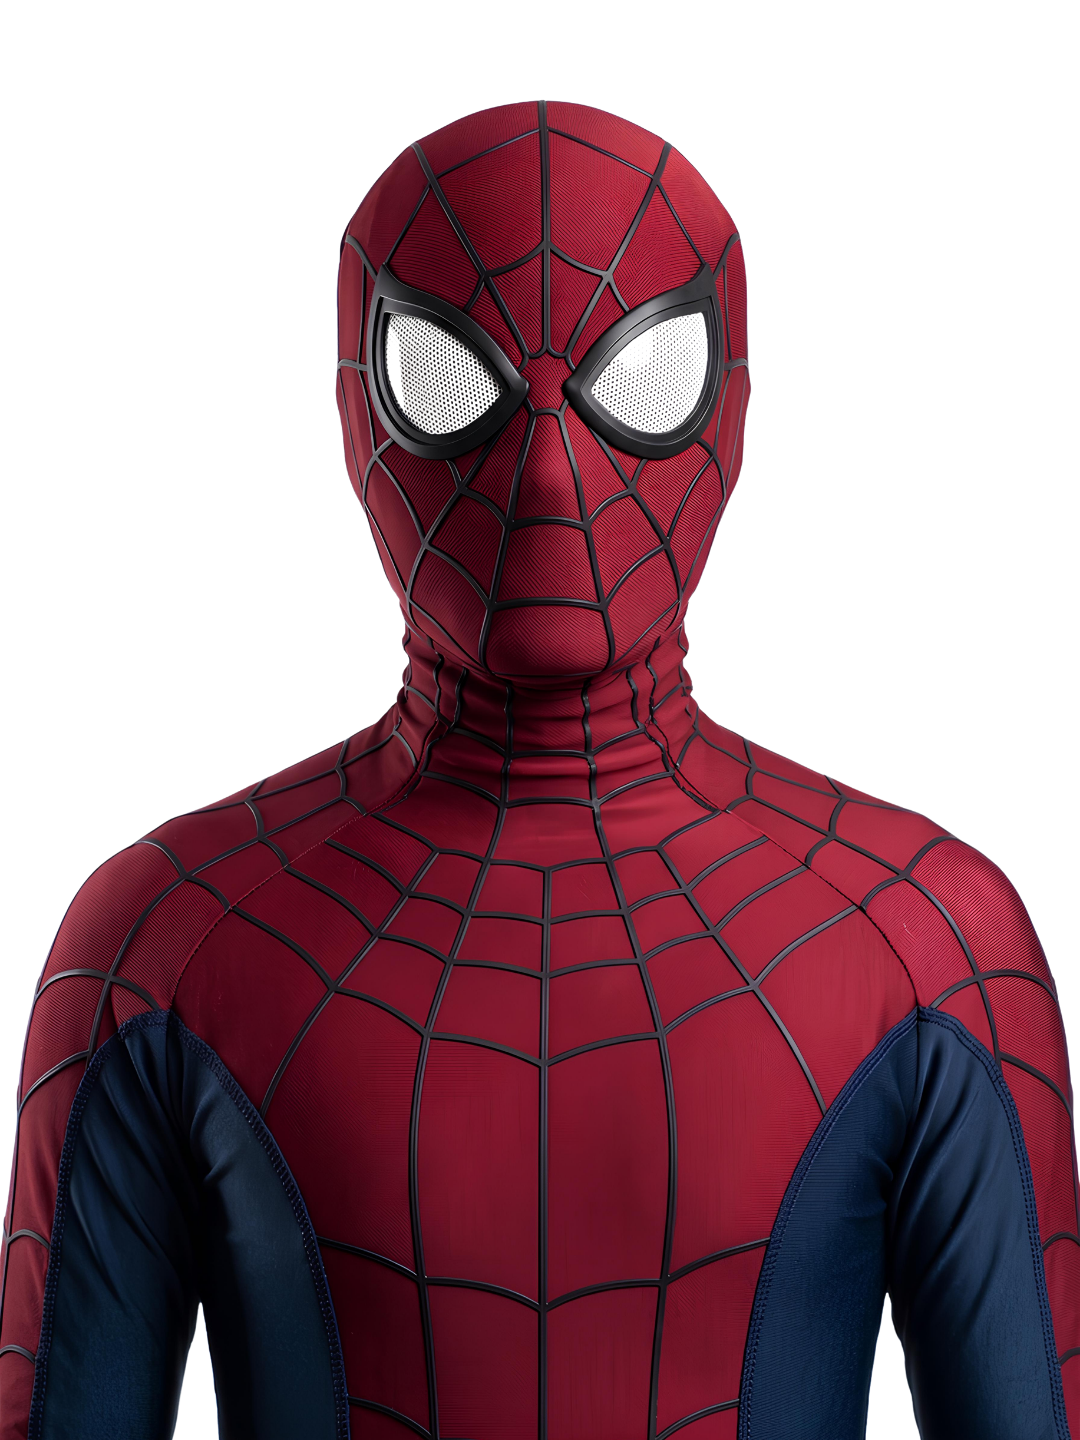
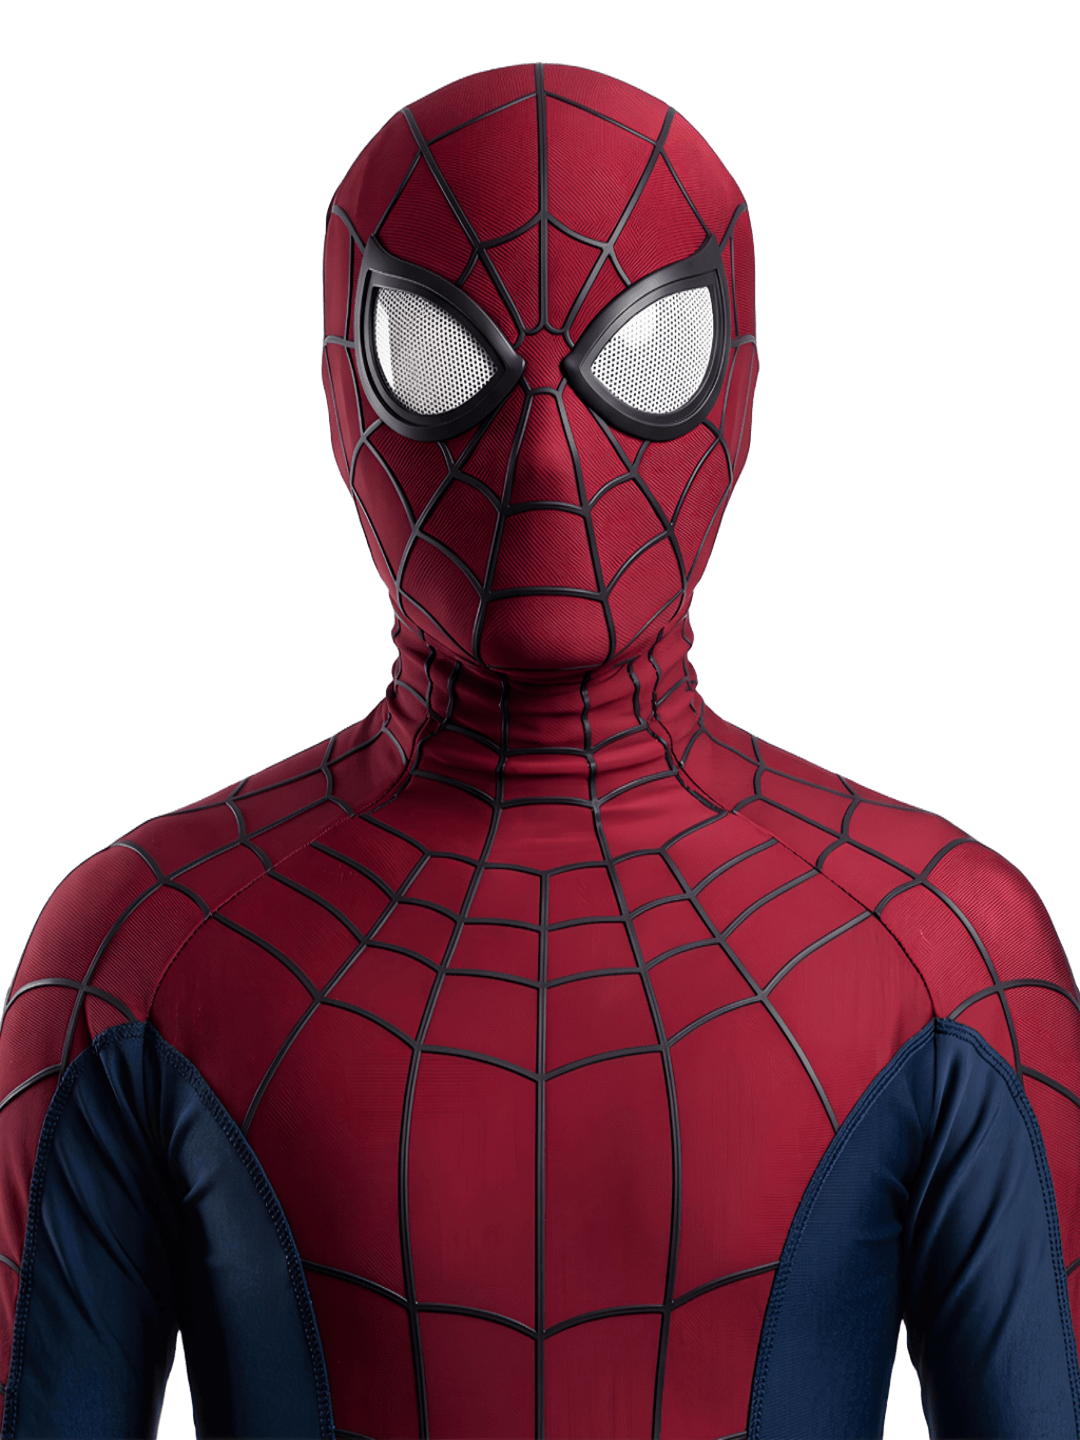
feat: implement image swap effect on hover

Changed region(s): [[0.0, 0.0312, 1.0, 1.0]]

diff --git a/style.css b/style.css
@@ -29,7 +29,7 @@ body {
   pointer-events: none;
   position: absolute;
   inset: 0;
-  background: radial-gradient(ellipse 80% 60% at 50% 30%, #aaee44 0%, #d4f56a 20%, #e8f9b0 45%, #ffffff 75%);
+  background: radial-gradient(ellipse 80% 60% at 50% 30%, #dc2626 0%, #f87171 20%, #fecaca 45%, #ffffff 75%);
 }
 
 .hero-content {
@@ -91,18 +91,110 @@ body {
   position: relative;
   z-index: 10;
   pointer-events: none;
-  filter: grayscale(100%);
   width: 340px;
   height: 460px;
 }
 
 .hero-image {
+  position: relative;
+  z-index: 0;
   width: 100%;
   height: 100%;
   object-fit: cover;
   object-position: top;
   mask-image: linear-gradient(to bottom, black 65%, transparent 100%);
   -webkit-mask-image: linear-gradient(to bottom, black 65%, transparent 100%);
+}
+
+@property --aura-x {
+  syntax: '<percentage>';
+  inherits: false;
+  initial-value: 50%;
+}
+
+@property --aura-y {
+  syntax: '<percentage>';
+  inherits: false;
+  initial-value: 50%;
+}
+
+.spider-image {
+  --aura-x: 50%;
+  --aura-y: 50%;
+  --aura-radius: 126px;
+  position: absolute;
+  inset: 0;
+  z-index: 1;
+  width: 100%;
+  height: 100%;
+  object-fit: cover;
+  object-position: top;
+  opacity: 0;
+  mask-image: radial-gradient(circle var(--aura-radius) at var(--aura-x) var(--aura-y), black 0 42%, transparent 100%);
+  -webkit-mask-image: radial-gradient(circle var(--aura-radius) at var(--aura-x) var(--aura-y), black 0 42%, transparent 100%);
+  transition: opacity 140ms ease, --aura-x 520ms cubic-bezier(0.18, 0.72, 0.22, 1), --aura-y 520ms cubic-bezier(0.18, 0.72, 0.22, 1);
+}
+
+.aura-zones {
+  position: absolute;
+  inset: 0;
+  z-index: 2;
+  display: grid;
+  grid-template-columns: repeat(5, 1fr);
+  grid-template-rows: repeat(5, 1fr);
+  pointer-events: none;
+}
+
+.aura-zones span {
+  pointer-events: auto;
+}
+
+.image-box:has(.aura-zones span:hover) .spider-image {
+  opacity: 1;
+}
+
+.image-box:has(.aura-zones span:hover) .spider-image {
+  opacity: 1;
+}
+
+.image-box:has(.aura-zones span:nth-child(1):hover, .aura-zones span:nth-child(6):hover, .aura-zones span:nth-child(11):hover, .aura-zones span:nth-child(16):hover, .aura-zones span:nth-child(21):hover) .spider-image {
+  --aura-x: 10%;
+}
+
+.image-box:has(.aura-zones span:nth-child(2):hover, .aura-zones span:nth-child(7):hover, .aura-zones span:nth-child(12):hover, .aura-zones span:nth-child(17):hover, .aura-zones span:nth-child(22):hover) .spider-image {
+  --aura-x: 30%;
+}
+
+.image-box:has(.aura-zones span:nth-child(3):hover, .aura-zones span:nth-child(8):hover, .aura-zones span:nth-child(13):hover, .aura-zones span:nth-child(18):hover, .aura-zones span:nth-child(23):hover) .spider-image {
+  --aura-x: 50%;
+}
+
+.image-box:has(.aura-zones span:nth-child(4):hover, .aura-zones span:nth-child(9):hover, .aura-zones span:nth-child(14):hover, .aura-zones span:nth-child(19):hover, .aura-zones span:nth-child(24):hover) .spider-image {
+  --aura-x: 70%;
+}
+
+.image-box:has(.aura-zones span:nth-child(5):hover, .aura-zones span:nth-child(10):hover, .aura-zones span:nth-child(15):hover, .aura-zones span:nth-child(20):hover, .aura-zones span:nth-child(25):hover) .spider-image {
+  --aura-x: 90%;
+}
+
+.image-box:has(.aura-zones span:nth-child(-n+5):hover) .spider-image {
+  --aura-y: 10%;
+}
+
+.image-box:has(.aura-zones span:nth-child(n+6):nth-child(-n+10):hover) .spider-image {
+  --aura-y: 30%;
+}
+
+.image-box:has(.aura-zones span:nth-child(n+11):nth-child(-n+15):hover) .spider-image {
+  --aura-y: 50%;
+}
+
+.image-box:has(.aura-zones span:nth-child(n+16):nth-child(-n+20):hover) .spider-image {
+  --aura-y: 70%;
+}
+
+.image-box:has(.aura-zones span:nth-child(n+21):hover) .spider-image {
+  --aura-y: 90%;
 }
 
 .desktop-floating {
@@ -140,7 +232,7 @@ body {
   width: 0.625rem;
   height: 0.625rem;
   border-radius: 50%;
-  background-color: #4ade80;
+  background-color: #dc2626;
   display: inline-block;
   animation: pulse 2s cubic-bezier(0.4, 0, 0.6, 1) infinite;
 }
@@ -208,7 +300,7 @@ body {
   bottom: 0;
   right: 0;
   width: 4px;
-  background-color: rgba(74, 222, 128, 0.5);
+  background-color: rgba(220, 38, 38, 0.55);
 }
 
 .quote-text {

diff --git a/index.html b/index.html
@@ -23,6 +23,34 @@
       <div class="hero-image-wrapper">
         <div class="image-box">
           <img src="Ravi.png" alt="Mochamad Ravi Ainur Rosida" class="hero-image">
+          <img src="spiderman.png" alt="" class="spider-image" aria-hidden="true">
+          <div class="aura-zones" aria-hidden="true">
+            <span></span>
+            <span></span>
+            <span></span>
+            <span></span>
+            <span></span>
+            <span></span>
+            <span></span>
+            <span></span>
+            <span></span>
+            <span></span>
+            <span></span>
+            <span></span>
+            <span></span>
+            <span></span>
+            <span></span>
+            <span></span>
+            <span></span>
+            <span></span>
+            <span></span>
+            <span></span>
+            <span></span>
+            <span></span>
+            <span></span>
+            <span></span>
+            <span></span>
+          </div>
         </div>
 
         <div class="desktop-floating">
